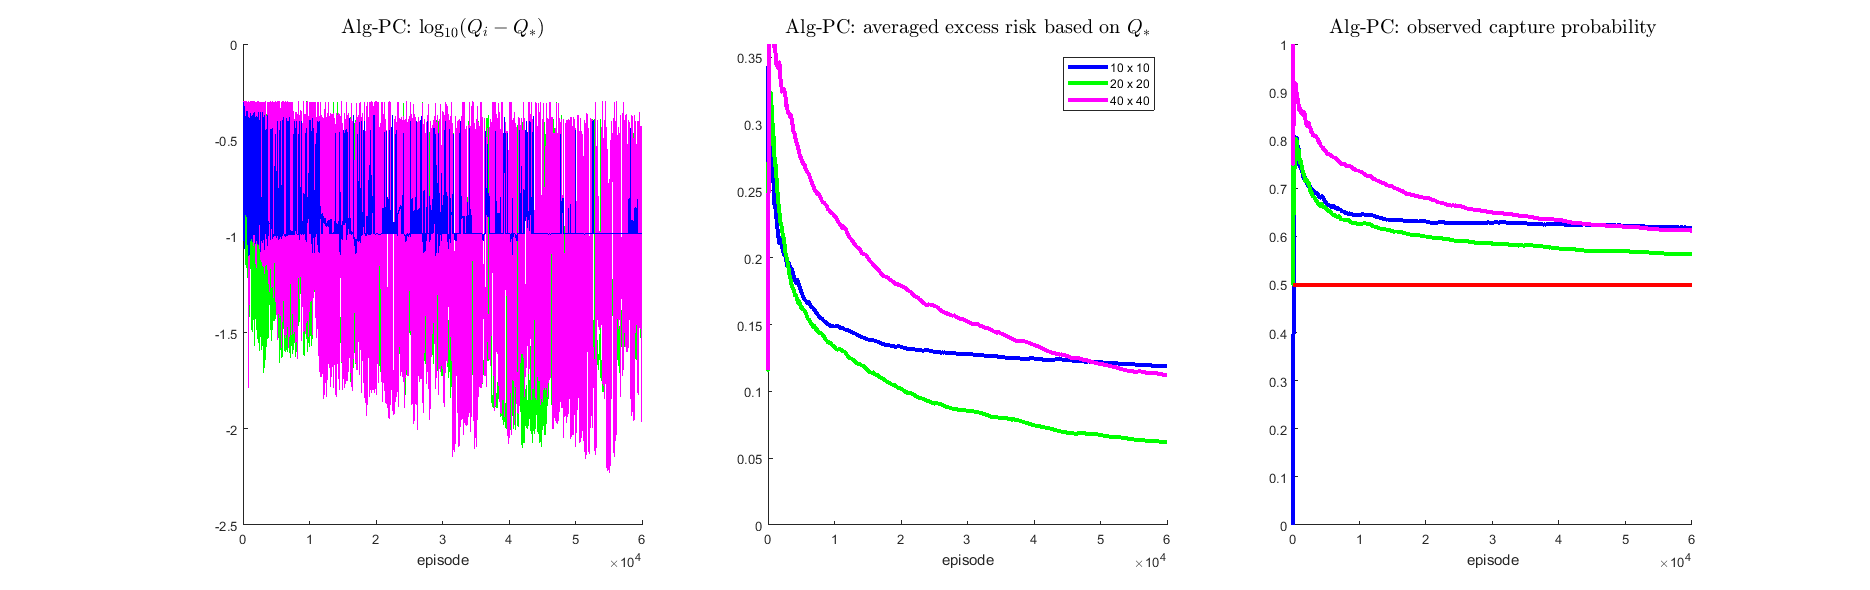
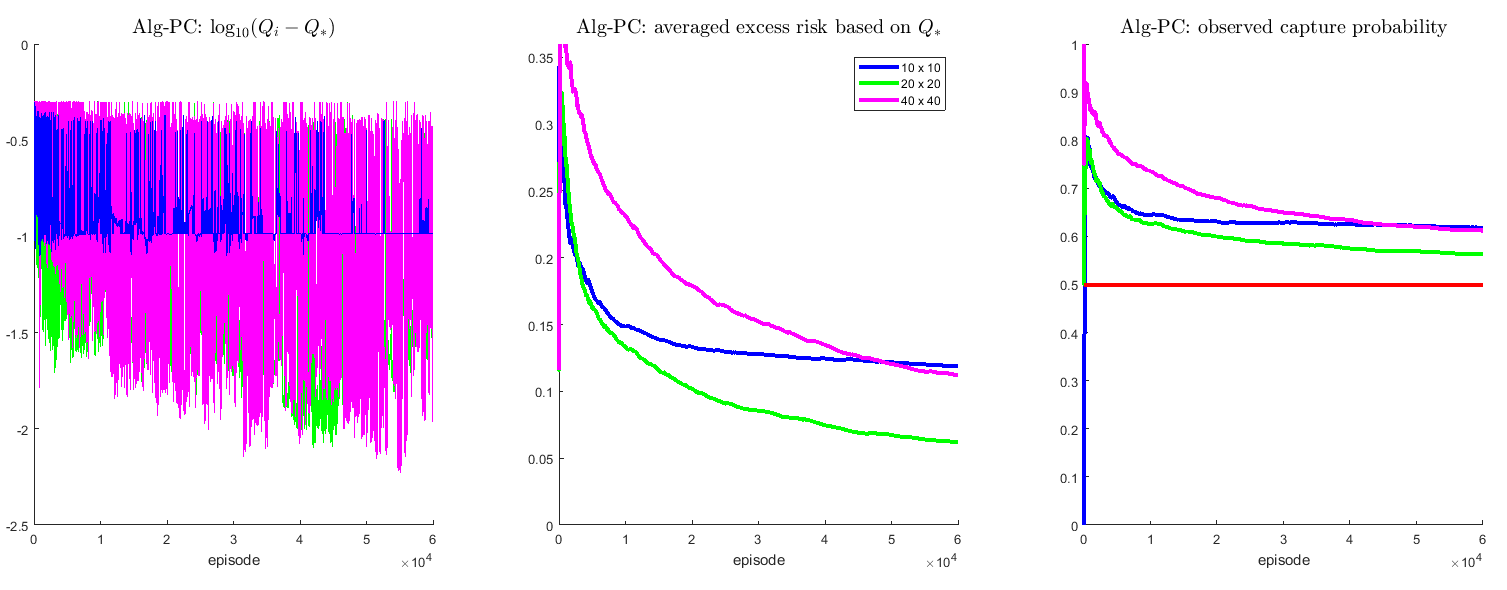
Size fix.

diff --git a/docs/refine.html b/docs/refine.html
@@ -60,13 +60,13 @@
         </p>
       </div>
       <div class="col-md-12">
-          <img src="pwc_refine_60000_episodes.png" width="1200" height="380">
+          <img src="pwc_refine_60000_episodes.png" width="1100" height="380">
       </div>
       <br>
       <div class="col-sm-12" align="justify">
         <p>
           As we can see from the middle figure, with $T = 60,000$ episodes, Alg-PC yields a lower averaged regret on a 10$\times$10 $\mathcal{G}$ than
-          on a 40$\times$40 grid for the first 50,000 episodes while the averaged regret on a 20$\times$20 grid (can be viewed as a compromise between 
+          on a 40$\times$40 grid for the first 50,000 episodes while the averaged regret on a 20$\times$20 grid (can be viewed as a compromise between
           a quite fine grid with too many cells and a quite coarse grid with much fewer cells) is much smaller and decays faster throughout.
           The right figure consolidates this through another regret metric, the experimentally observed capture probability.
         </p>

diff --git a/docs/limits.html b/docs/limits.html
@@ -87,7 +87,7 @@
         </p>
       </div>
       <div class="col-md-12">
-          <img src="average_regret_best_learnable.png" width="1200" height="380">
+          <img src="average_regret_best_learnable.png" width="1100" height="380">
       </div>
 
       <h2>Alg-GP (Gaussian process model) </h2>
